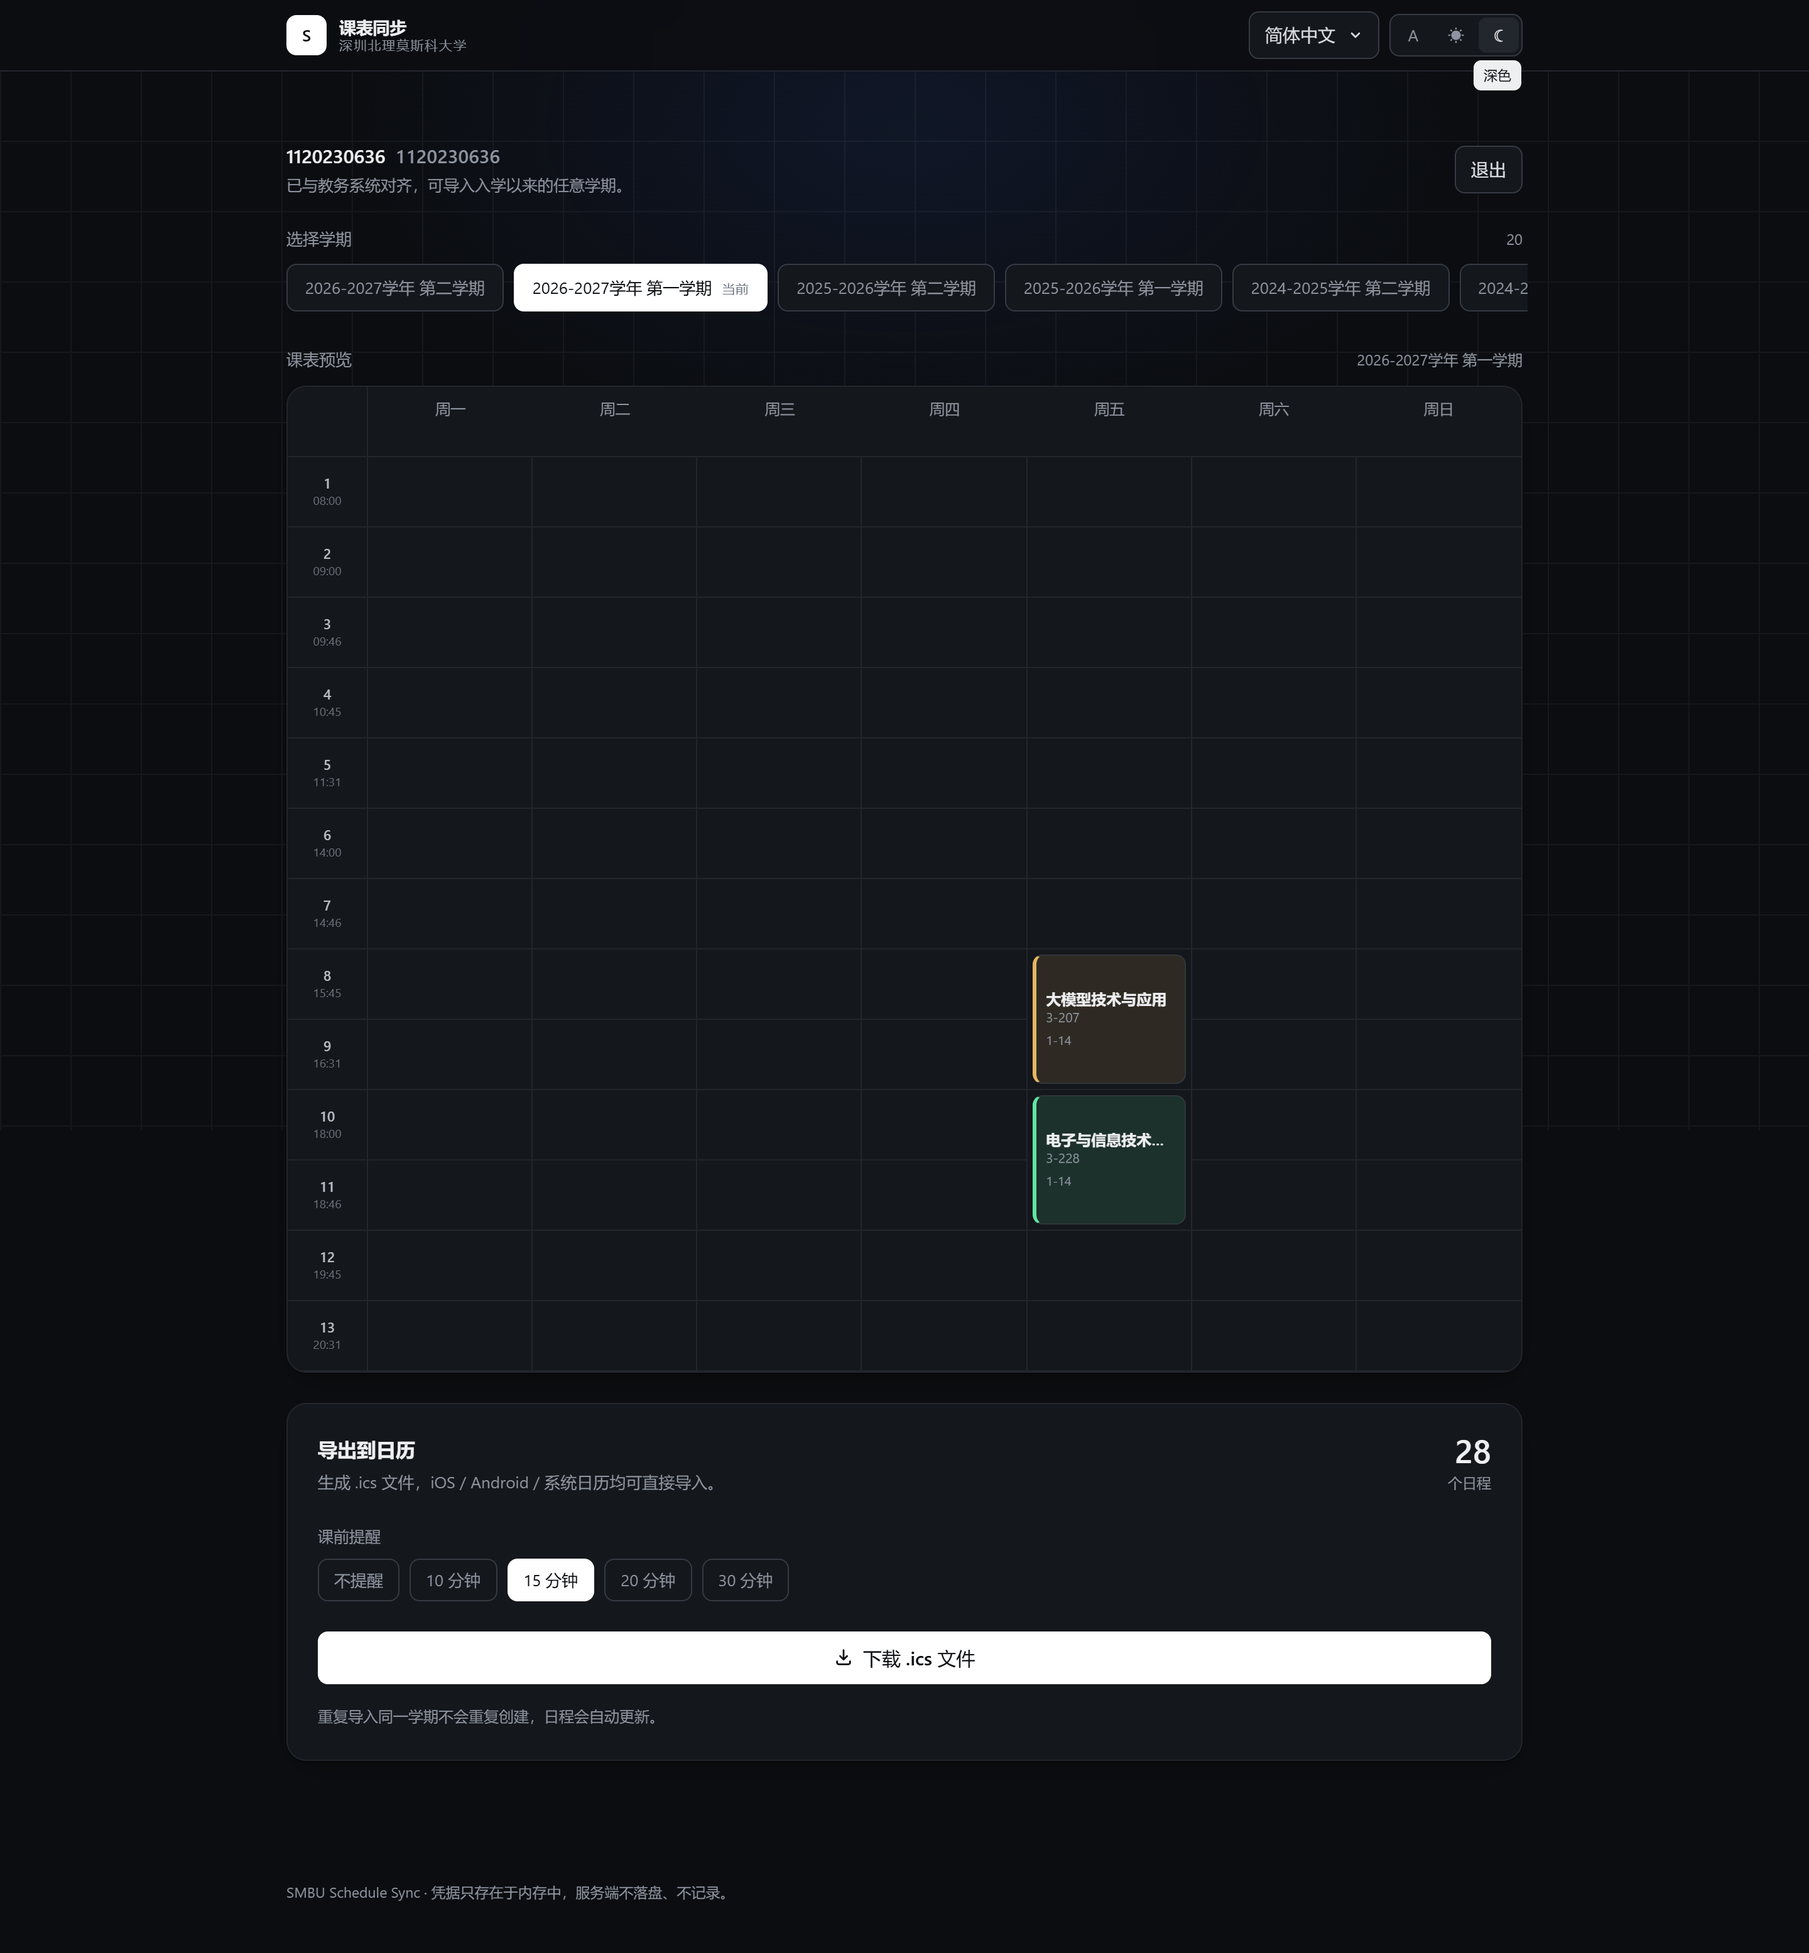
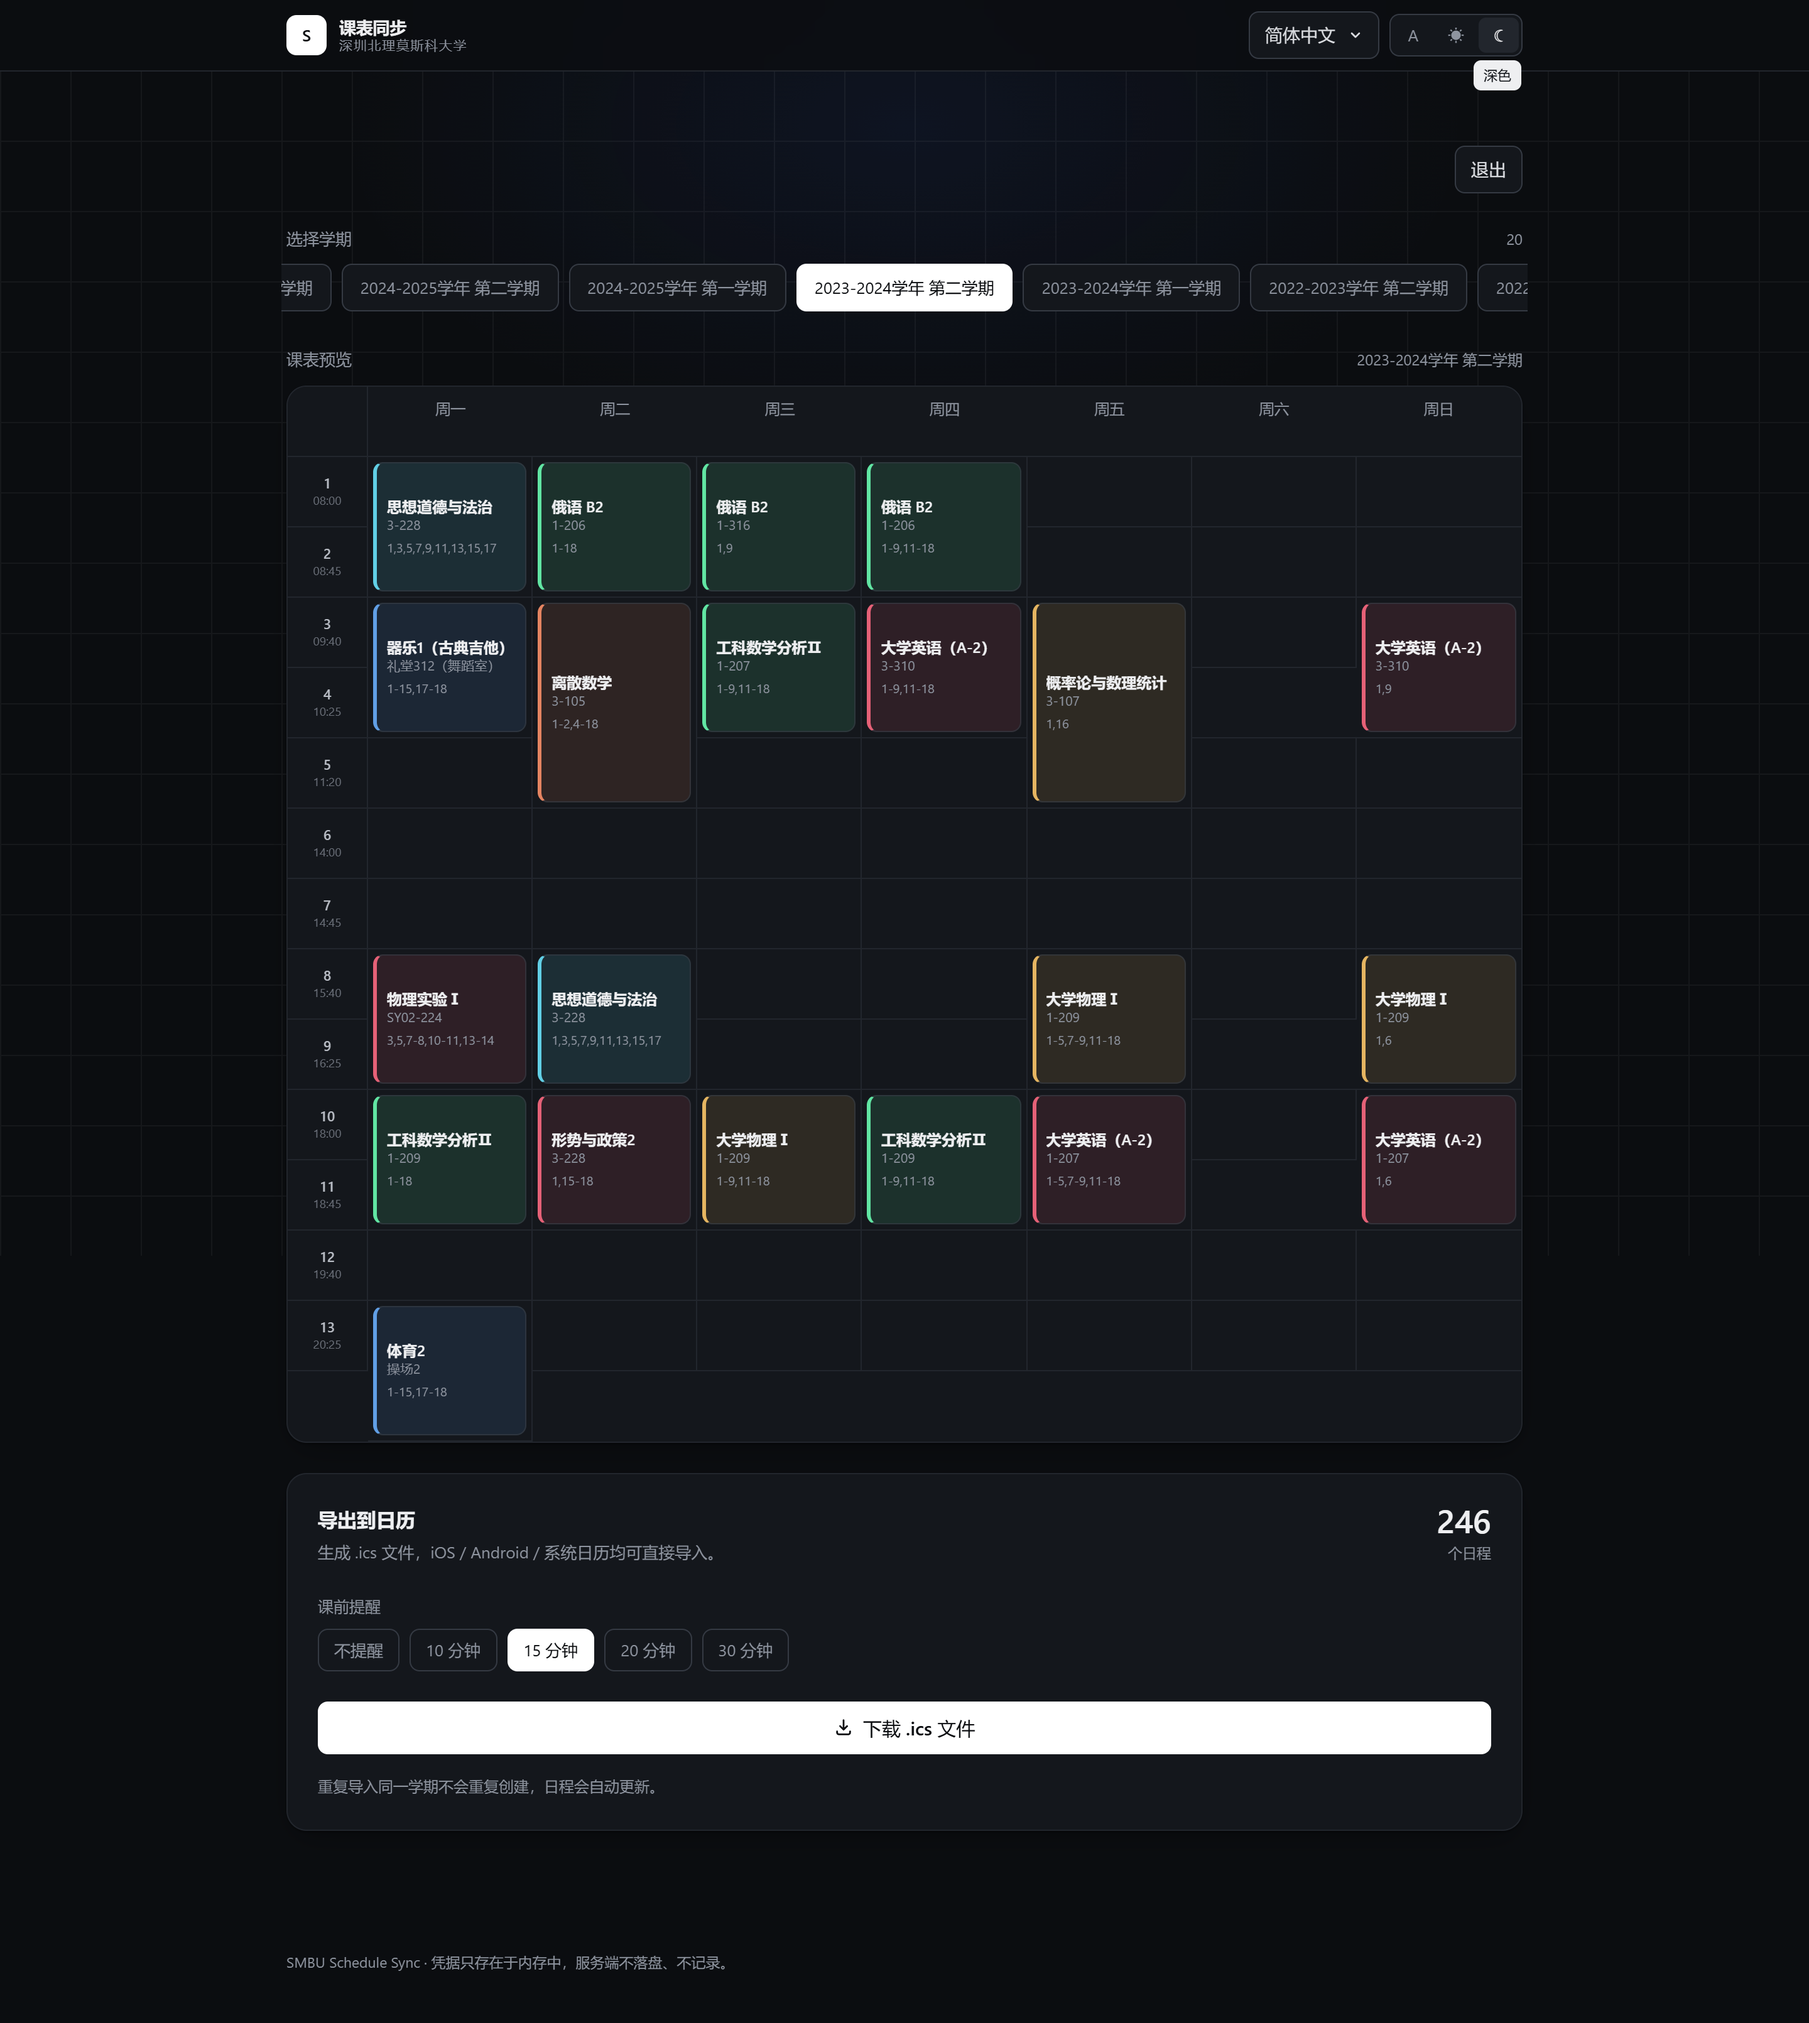
docs: real-account screenshots (fullest semester 2023-2024-2, 21 courses)
- Re-shot through the real portal with a real account; account bar
  (real name + student id) is hidden before capture since the README is public
- Semester chosen by scanning all terms: 2023-2024 has the most course
  blocks (21) vs 大二 2024-2025 (17), 大三 (10), current 大四 (2)
- READMEs now caption which semester is shown

diff --git a/README.ru.md b/README.ru.md
@@ -18,6 +18,8 @@
 |---|---|
 | ![Предпросмотр расписания — светлая](docs/screenshots/timetable-light.png) | ![Предпросмотр расписания — тёмная](docs/screenshots/timetable-dark.png) |
 
+<sub>Пример: весенний семестр 2023–2024 (21 учебная пара, реальный аккаунт; имя и номер студента скрыты)</sub>
+
 Выберите семестр → просмотрите всё расписание → выберите напоминание перед занятием → скачайте `.ics` и импортируйте. Поддерживаются **все семестры с первого курса**; повторный импорт семестра автоматически убирает дубликаты и обновляет события.
 
 ## 🚀 Возможности

diff --git a/README.en.md b/README.en.md
@@ -18,6 +18,8 @@ Enter your CAS credentials → the server fetches any semester's timetable → d
 |---|---|
 | ![Timetable preview — light](docs/screenshots/timetable-light.png) | ![Timetable preview — dark](docs/screenshots/timetable-dark.png) |
 
+<sub>Sample: spring semester 2023–2024 (21 course blocks, captured from a real account; name and student ID hidden)</sub>
+
 Pick a semester → preview the full timetable → choose a pre-class reminder → download the `.ics` and import it. **Every semester since freshman year** is supported; re-importing a semester deduplicates and refreshes events automatically.
 
 ## 🚀 Features

diff --git a/README.md b/README.md
@@ -18,6 +18,8 @@
 |---|---|
 | ![课表预览 - 亮色](docs/screenshots/timetable-light.png) | ![课表预览 - 深色](docs/screenshots/timetable-dark.png) |
 
+<sub>示例：2023–2024 学年第二学期（21 个课块，真实账号抓取，姓名学号已隐去）</sub>
+
 选择学期 → 预览整学期课表 → 选课前提醒 → 下载 `.ics` 导入日历。支持入学以来的**全部学期**，重复导入同一学期会自动去重更新。
 
 ## 🚀 特性
